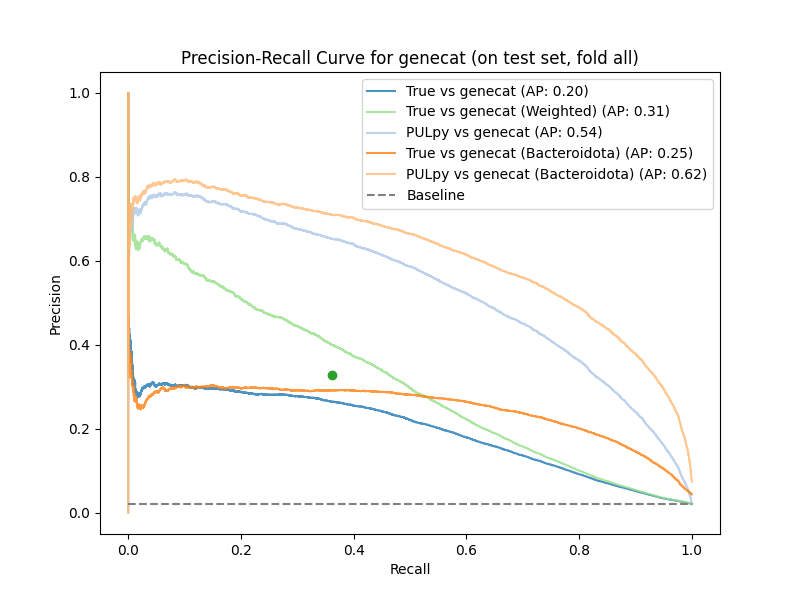
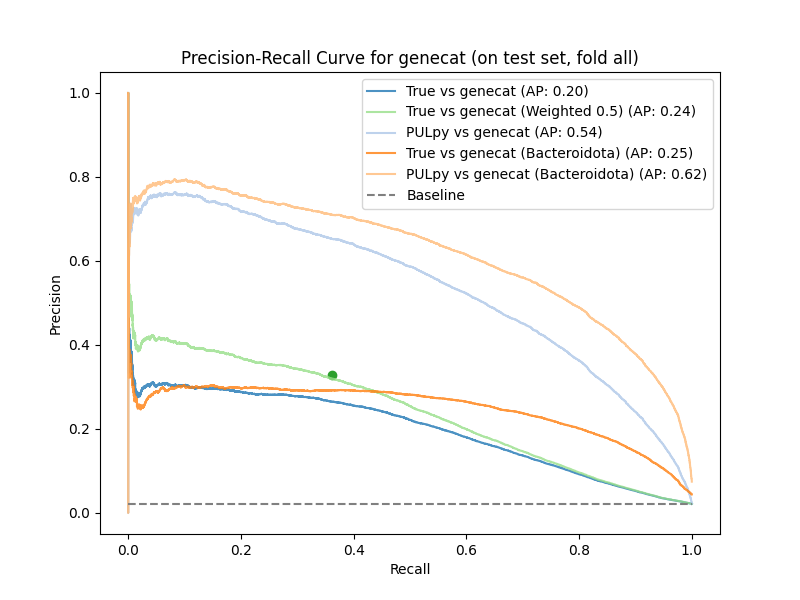
add weight option for pulpy and cblaster genes

diff --git a/src/scripts/evaluate_predictions.py b/src/scripts/evaluate_predictions.py
@@ -19,13 +19,14 @@ class PredictionEvaluator:
                 clusters_table_path, 
                 pulpy_annotations_path,
                 cblaster_annotations_path, 
-                k, model_name, split, output_path):
+                k, model_name, split, output_path, weight):
 
         self.model_name = model_name
         self.split = split
         self.output_path = output_path
         self.labeled_results_raw = []
         self.labeled_results = []
+        self.weight = weight
 
         for i in range(k):
             labeled_results = polars.read_csv(f"{labeled_results_path}_{i}.tsv", separator='\t')
@@ -48,7 +49,7 @@ class PredictionEvaluator:
             self.labeled_results[fold]
             .with_columns(
                 polars.when(((polars.col("is_PUL_pulpy") == True) | (polars.col("is_PUL_cblaster") == True)) & (polars.col("is_PUL") == False))
-                .then(0.01)
+                .then(self.weight)
                 .otherwise(1.0)
                 .alias("sample_weight")
             )
@@ -202,7 +203,7 @@ class PredictionEvaluator:
         # for true vs pred
         self.plot_pr(self.true, self.p_pred, "True vs " + self.model_name, colors[0], ax)
         if fold == "all":
-            self.plot_pr(self.true, self.p_pred, f"True vs {self.model_name} (Weighted)", colors[5], ax, weights=self.sample_weights)
+            self.plot_pr(self.true, self.p_pred, f"True vs {self.model_name} (Weighted {self.weight})", colors[5], ax, weights=self.sample_weights)
         # for pulpy vs pred
         self.plot_pr(self.pulpy_pred, self.p_pred, "PULpy vs " + self.model_name, colors[1], ax)
         self.plot_pr_dot(self.true, self.pulpy_pred, colors[4], ax)
@@ -366,6 +367,7 @@ if __name__ == "__main__":
     parser.add_argument("--model", type=str, help="Name of model to evaluate", required=True)
     parser.add_argument("--split", type=str, default="test", help="Whether to evaluate on test or train set")
     parser.add_argument("-k", type=int, default=7, help="Number of folds to evaluate")
+    parser.add_argument("--weight", type=float, default=0.01, help="Weight for uncertain negative examples.")
     args = parser.parse_args()
     model_name = args.model
     output_path = f"src/data/plots/{model_name}"
@@ -386,7 +388,8 @@ if __name__ == "__main__":
         k=args.k,
         model_name=model_name,
         split=args.split,
-        output_path=output_path
+        output_path=output_path,
+        weight=args.weight
     )
 
     if args.k == 7:
@@ -407,11 +410,14 @@ if __name__ == "__main__":
             k=5,
             model_name=model_name,
             split=args.split,
-            output_path=output_path
+            output_path=output_path,
+            weight=args.weight
         )
         evaluator.precision_recall_curve("all")
 
-    #evaluator.visualize_predictions_in_genome("AE015928", 0, 0.21)
+    # two heaily annoated bacteroidetes
+    evaluator.visualize_predictions_in_genome("AE015928", 0, 0.25)
+    evaluator.visualize_predictions_in_genome("JH724241", 0, 0.25)
 
 
     """
